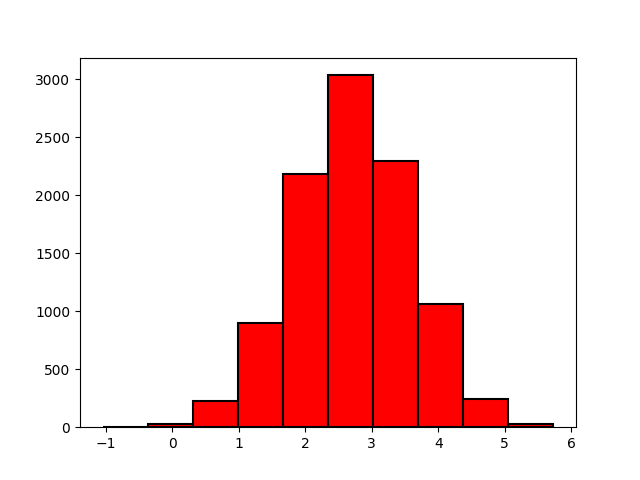
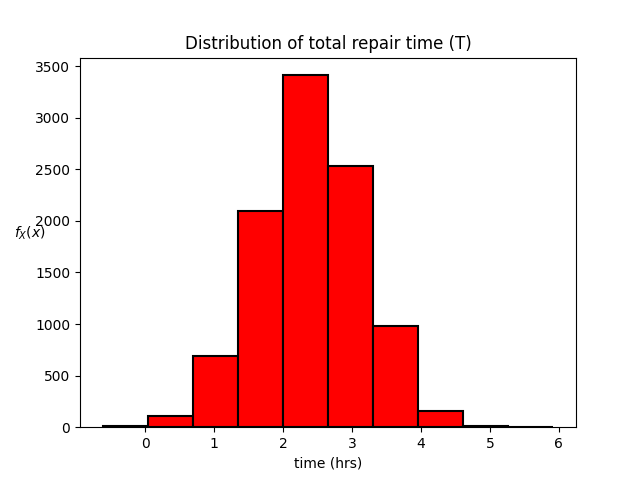
Completed Assignment 4

diff --git a/Assignment 04/B23395-Assignment04-IC252-Q1.py b/Assignment 04/B23395-Assignment04-IC252-Q1.py
@@ -11,10 +11,13 @@ df = pd.DataFrame(joint_prob,index=['Sunny', 'Rainy', 'Cloudy'])
 # df.to_csv('joint_prob.csv')
 print(df, "\n")
 
-df['F_Y(y)'] = pd.Series(df.sum(axis=1))
-df.loc['F_X(x)'] = pd.Series(df.sum(axis=0))
-# df.to_csv('marginal_prob.csv')
-print(df, "\n")
+
+# Part (b)
+print("\nMarginal distribution of Y:\n")
+print(pd.Series(df.sum(axis=1)))
+
+print("\nMarginal distribution of X:\n")
+print(pd.Series(df.sum(axis=0)))
 
 clothing_choice = ["T-Shirt", "Sweater", "Jacket"]
 weather = ['Sunny', 'Rainy', 'Cloudy']
@@ -25,12 +28,26 @@ def choose_with_dependent_bias(item_from_list1):
     return random.choices(weather, probabilities, k=1)[0]
 
 
+print("\n")
 lst = []
-for i in range(1000000):
+n = 100000
+for i in range(n):
     a = np.random.choice(clothing_choice)
-    lst.append((a,choose_with_dependent_bias(a)))
+    lst.append(f"{a},{choose_with_dependent_bias(a)}")
     
+unique_pairs, count = np.unique(lst, return_counts=True)
+for i,j in enumerate(unique_pairs):
+    print(f"({j}) = {count[i]/n}")
 
-    
-freq = lst.count(('Sweater', 'Cloudy'))/1000000
-print(freq)
+print("\n")
+plt.figure(figsize=(10,6))
+plt.subplot(1,2,1)
+plt.title('Marginal Probabilities of Weather')
+plt.bar(weather, df.sum(axis=1), edgecolor='black', color='red', linewidth=1.5)
+plt.ylabel(r'$f_X(x)$', rotation=0)
+
+plt.subplot(1,2,2)
+plt.title('Marginal Probabilities of Clothing Choice')
+plt.bar(clothing_choice, df.sum(axis=0), edgecolor='black', color='red', linewidth=1.5)
+# plt.savefig('Q1_(b).png')
+plt.show()

diff --git a/Assignment 04/B23395-Assignment04-IC252-Q4.py b/Assignment 04/B23395-Assignment04-IC252-Q4.py
@@ -1,5 +1,4 @@
 import numpy as np
-import pandas as pd
 import matplotlib.pyplot as plt
 
 repair_times_FM = np.random.normal(1.5, 0.75, 100)
@@ -33,8 +32,7 @@ plt.show()
 
 
 # Part (b)
-print("This part is done on paper (theoritical)")
-
+# This part is done on paper (theoritical)
 
 # Part (c)
 T = repair_times_AM + repair_times_FM
@@ -47,9 +45,11 @@ sigma_T = np.std(T)
 print(mu_T,sigma_T )
 
 plt.hist(np.random.normal(loc=mu_T, scale=sigma_T, size=10000), edgecolor='black', color='red', linewidth=1.5)
-# plt.savefig('Q4_(d).png')
+plt.xlabel("time (hrs)")
+plt.ylabel(r'$f_X(x)$', rotation=0)
+plt.title("Distribution of total repair time (T)")
+plt.savefig('Q4_(d).png')
 plt.show()
 
 # Part (e)
-'''to be continued...'''
-
+# This part is done on paper (theoritical)

diff --git a/Assignment 04/B23395-Assignment04-IC252-Q3.py b/Assignment 04/B23395-Assignment04-IC252-Q3.py
@@ -1,5 +1,4 @@
 import numpy as np
-import pandas as pd
 import matplotlib.pyplot as plt
 
 # Part (d)
@@ -11,7 +10,7 @@ X = np.linspace(0,100, 10000)
 plt.plot(X, normal_prob(X,78,5), label='Prof. A\'s Exam')
 plt.plot(X, normal_prob(X,85,3), label='Prof. B\'s Exam')
 plt.xlabel('Marks')
-plt.ylabel(r'f_X(x)')
+plt.ylabel(r'$f_X(x)$', rotation=0)
 plt.title('PDFs of both Professor A\'s and Professor B\'s exams')
 plt.legend()
 plt.savefig('Q3_(d).png')
